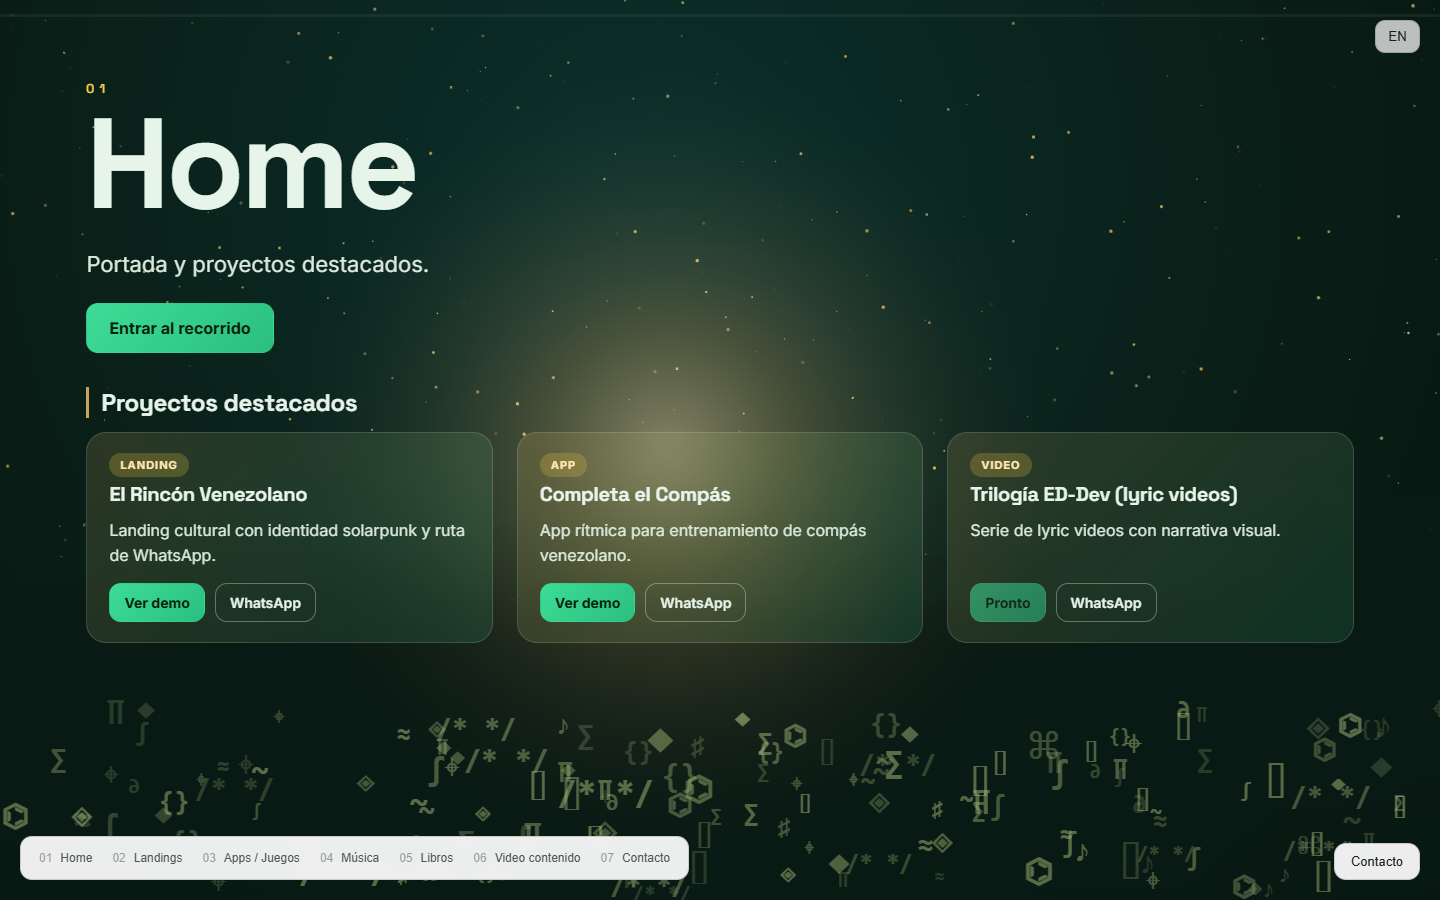
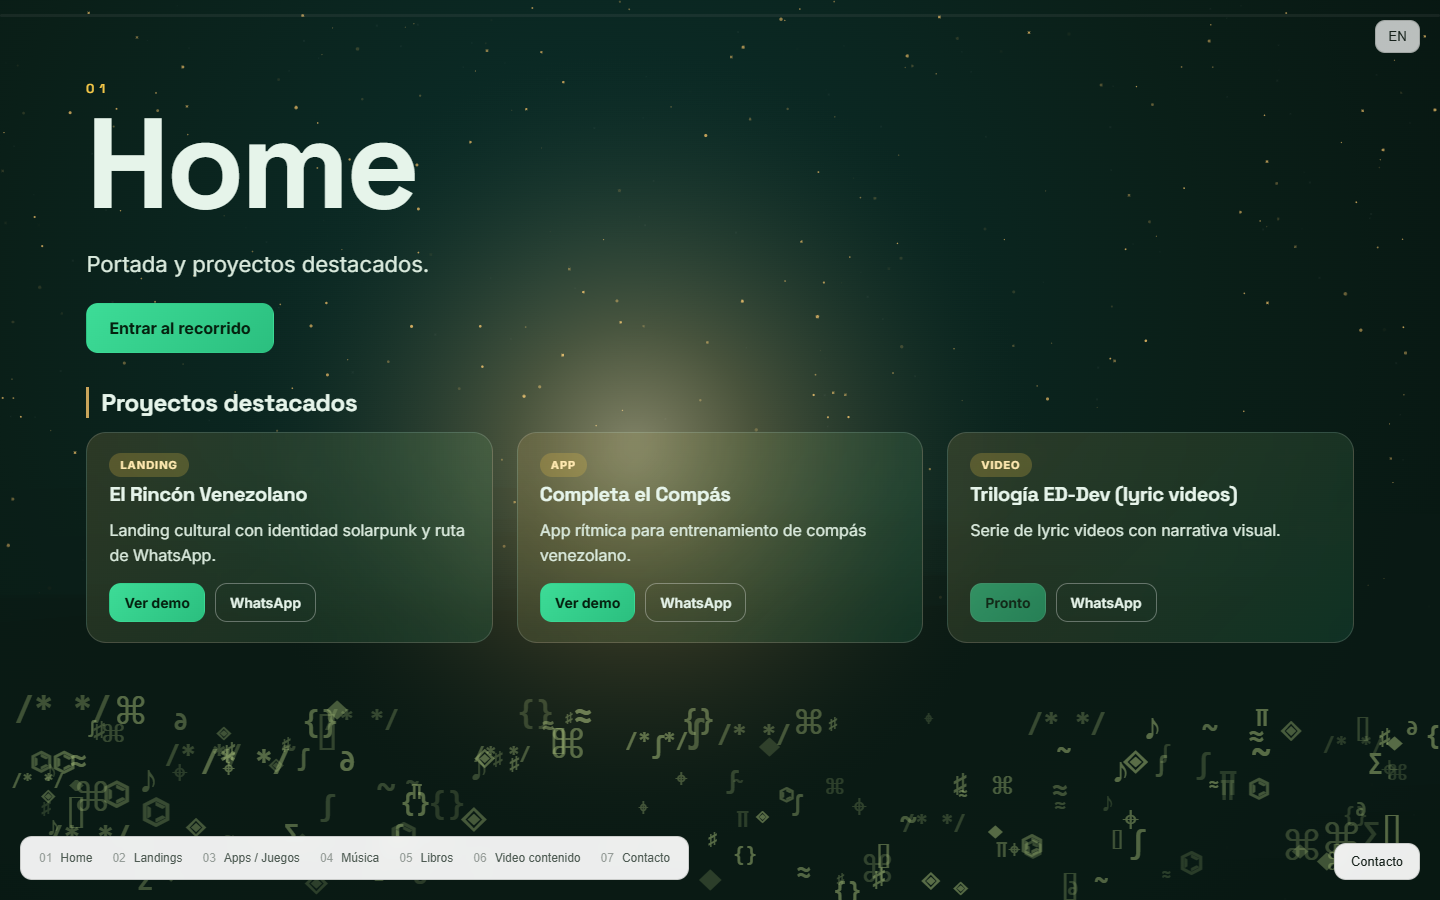
Fases A+B+C: rutas por sala, idioma sin recarga, og latino, fuertes variantes, a11y, imagenes

diff --git a/src/recorrido.js b/src/recorrido.js
@@ -1,6 +1,7 @@
 export function initRecorrido({app, salas, proyectos, textos, CONFIG, MundoCaverna}) {
-  const tUI = () => textos[localStorage.getItem('portafolio-lang') || 'es'] || textos.es
-  const t = (obj) => (obj && (obj[localStorage.getItem('portafolio-lang') || 'es'] ?? obj.es)) || ''
+  const lang = () => localStorage.getItem('portafolio-lang') || 'es'
+  const tUI = () => textos[lang()] || textos.es
+  const t = (obj) => (obj && (obj[lang()] ?? obj.es)) || ''
 
   const el = (tag, attrs = {}, children = []) => {
     const node = document.createElement(tag)
@@ -20,6 +21,12 @@ export function initRecorrido({app, salas, proyectos, textos, CONFIG, MundoCaver
   // Tarjeta de proyecto (una sola vez; la usan las salas y los destacados de Home)
   const crearCard = (p) => {
     const card = el('article', {class:'project' + (p.destacado ? ' featured' : '')})
+    if (p.imagen) {
+      const media = el('div', {class:'project-media'})
+      const img = el('img', {src:p.imagen, alt:t(p.title), loading:'lazy', decoding:'async'})
+      media.appendChild(img)
+      card.appendChild(media)
+    }
     const body = el('div', {class:'project-body'})
     body.appendChild(el('span', {class:'tag', text:tUI().typeLabels[p.type] || p.type}))
     body.appendChild(el('h2', {text:t(p.title)}))
@@ -191,11 +198,16 @@ export function initRecorrido({app, salas, proyectos, textos, CONFIG, MundoCaver
   const progress = el('div', {class:'progress'})
   const progressBar = el('div', {class:'progress-bar'})
   progress.appendChild(progressBar)
+  progress.setAttribute('aria-hidden', 'true')
+
+  // Anuncio de sala para lectores de pantalla (B4)
+  const anuncio = el('p', {class:'sr-only', 'aria-live':'polite'})
   const salaContacto = salas.find(s=>s.id==='contacto')
   const contactoBtn = el('button', {class:'contacto-btn', text:t(salaContacto.titulo)})
   contactoBtn.addEventListener('click', ()=>goTo(salas.length-1))
   document.body.appendChild(progress)
   document.body.appendChild(contactoBtn)
+  document.body.appendChild(anuncio)
 
   // Parallax sutil de los títulos (se apaga con movimiento reducido)
   const salasEls = [...document.querySelectorAll('.room')]
@@ -210,6 +222,26 @@ export function initRecorrido({app, salas, proyectos, textos, CONFIG, MundoCaver
       const sl = stage.scrollLeft           // una sola lectura de layout por frame
       const rw = roomW()
       const i = Math.round(sl / rw)
+
+      // A1: la URL sigue a la sala (sin tocar el scroll del documento)
+      if (i !== ultimaSala) {
+        ultimaSala = i
+        history.replaceState(null, '', `#/${salas[i].id}`)
+      }
+
+      // A1: la URL sigue a la sala (sin tocar el scroll del documento)
+      if (i !== ultimaSala) {
+        ultimaSala = i
+        history.replaceState(null, '', `#/${salas[i].id}`)
+        anuncio.textContent = tUI().roomOf.replace('{n}', String(i+1)).replace('{total}', String(salas.length)) + ': ' + t(salas[i].titulo)
+      }
+
+      document.querySelectorAll('.map-item').forEach((b,idx)=>{
+        const activo = idx===i
+        b.classList.toggle('active', activo)
+        b.setAttribute('aria-current', activo ? 'true' : 'false')
+      })
+
       if (mundo) {
         const sala = salas[i]
         const mode = sala.ambiente==='jardin' ? 'jardin' : 'cueva'
@@ -217,10 +249,6 @@ export function initRecorrido({app, salas, proyectos, textos, CONFIG, MundoCaver
         // Fondo vivo: parallax por capas + variante por sala
         if (mundo.setScene) mundo.setScene({scroll: sl, seed: i})
       }
-      document.querySelectorAll('.map-item').forEach((b,idx)=>{
-        b.classList.toggle('active', idx===i)
-      })
-
       // Progreso: cálculo puro, sin leer layout
       progressBar.style.width = `${(sl / Math.max(1, maxScroll())) * 100}%`
       contactoBtn.classList.toggle('oculto', i === salas.length - 1)
@@ -230,7 +258,7 @@ export function initRecorrido({app, salas, proyectos, textos, CONFIG, MundoCaver
         headEls.forEach((head, idx)=>{
           const off = (idx * rw + rw/2 - sl) / rw
           head.style.transform = `translateX(${off * -6}%)`
-          head.style.opacity = String(Math.max(0.25, 1 - Math.abs(off) * 1.4))
+          head.style.opacity = String(Math.max(0.45, 1 - Math.abs(off) * 1.4))
         })
       }
       ticking = false
@@ -246,10 +274,11 @@ export function initRecorrido({app, salas, proyectos, textos, CONFIG, MundoCaver
   }, {passive:false})
 
   // Teclas
-  window.addEventListener('keydown', (e)=>{
+  const onKey = (e)=>{
     if (e.key==='ArrowRight') goTo(Math.min(salas.length-1, currentIndex()+1))
     if (e.key==='ArrowLeft') goTo(Math.max(0, currentIndex()-1))
-  })
+  }
+  window.addEventListener('keydown', onKey)
 
   // Resize mundo con debounce rAF
   let resizeRAF = false
@@ -263,6 +292,34 @@ export function initRecorrido({app, salas, proyectos, textos, CONFIG, MundoCaver
   })
   ro.observe(document.body)
 
+  // ── A1: enlaces por sala ──
+  // Al cargar: si hay hash (#/apps), aterrizar directo en esa sala
+  const salaIndexFromHash = ()=>{
+    const id = (location.hash || '').replace(/^#\/?/, '')
+    const i = salas.findIndex(s=>s.id===id)
+    return i >= 0 ? i : -1
+  }
+  const inicial = salaIndexFromHash()
+  if (inicial > 0) {
+    stage.scrollLeft = inicial * roomW()          // salto directo, sin animación
+    if (mundo) {
+      const sala = salas[inicial]
+      mundo.setMode(sala.ambiente==='jardin' ? 'jardin' : 'cueva')
+      if (mundo.setScene) mundo.setScene({scroll: stage.scrollLeft, seed: inicial})
+    }
+  }
+
   // Exponer
+  let ultimaSala = inicial
   window.__recorrido = {goTo, currentIndex}
+
+  // Destructor para repintar (cambio de idioma sin recarga)
+  const destroy = ()=>{
+    mundo && mundo.destroy()
+    ro.disconnect()
+    window.removeEventListener('keydown', onKey)
+    progress.remove(); contactoBtn.remove(); toast.remove(); canvas.remove(); anuncio.remove()
+    app.innerHTML = ''
+  }
+  return {destroy}
 }

diff --git a/src/main.js b/src/main.js
@@ -1,6 +1,5 @@
+import './fonts.css'
 import './style.css'
-import '@fontsource-variable/space-grotesk'
-import '@fontsource-variable/inter'
 import salas from './salas.js'
 import proyectos from './proyectos.js'
 import textos from './textos.js'
@@ -14,38 +13,46 @@ const CONFIG = {
 const app = document.getElementById('app')
 if (!app) throw new Error('app not found')
 
-// Inicializar recorrido horizontal con 7 salas
-initRecorrido({ app, salas, proyectos, textos, CONFIG, MundoCaverna })
-
-// Mantener idioma en documento y JSON-LD mínimo
-let lang = localStorage.getItem('portafolio-lang') || 'es'
-document.documentElement.lang = lang
-
-function updateLang() {
+// JSON-LD mínimo + SEO en documento
+function updateDoc() {
+  const lang = localStorage.getItem('portafolio-lang') || 'es'
   document.documentElement.lang = lang
   const tUI = textos[lang] || textos.es
-  const title = tUI.pageTitle || 'Portafolio ED-Dev'
-  document.title = title
+  document.title = tUI.pageTitle || 'Portafolio ED-Dev'
   const ld = document.getElementById('ldjson')
   if (ld) {
     ld.textContent = JSON.stringify({
       '@context':'https://schema.org',
       '@type':'Person',
       name:'ED-Dev',
-      description:'Portafolio de 7 salas: caverna y jardín.'
+      description:'Portafolio de 7 salas: caverna y jardín.',
+      knowsAbout: proyectos.map(p=>p.title.es)
     })
   }
 }
-updateLang()
+updateDoc()
 
-// Botón de idioma simple
+// Pintar el recorrido (y repintarlo sin recargar al cambiar idioma)
+let vivo = null
+function render() {
+  if (vivo) vivo.destroy()
+  app.innerHTML = ''
+  updateDoc()
+  vivo = initRecorrido({ app, salas, proyectos, textos, CONFIG, MundoCaverna })
+}
+render()
+
+// Botón de idioma simple (sin recarga: se repinta y sigues en tu sala)
 const btn = document.createElement('button')
 btn.className = 'lang-btn'
-btn.textContent = lang === 'es' ? 'EN' : 'ES'
+btn.textContent = localStorage.getItem('portafolio-lang') === 'en' ? 'ES' : 'EN'
 btn.addEventListener('click', ()=>{
-  lang = lang === 'es' ? 'en' : 'es'
-  localStorage.setItem('portafolio-lang', lang)
-  updateLang()
-  location.reload()
+  const next = localStorage.getItem('portafolio-lang') === 'en' ? 'es' : 'en'
+  const salaActual = window.__recorrido ? window.__recorrido.currentIndex() : 0  // antes de repintar
+  localStorage.setItem('portafolio-lang', next)
+  btn.textContent = next === 'en' ? 'ES' : 'EN'
+  render()
+  // volver a la sala donde estabas (el hash ya la recuerda)
+  if (salaActual > 0) requestAnimationFrame(()=>window.__recorrido.goTo(salaActual))
 })
 document.body.appendChild(btn)

diff --git a/src/mundo-caverna.js b/src/mundo-caverna.js
@@ -241,9 +241,9 @@ export class MundoCaverna {
 
     const p = (i) => this.prand(i);
 
-    // Cueva: el centro del túnel varía por sala
-    const cupX = w * (0.35 + p(1) * 0.3);
-    const cupY = h * 0.2;
+    // Cueva: el centro del túnel varía por sala (rango amplio: cada cueva se siente distinta)
+    const cupX = w * (0.25 + p(1) * 0.5);
+    const cupY = h * (0.1 + p(4) * 0.25);
     const cupula = ctx.createRadialGradient(cupX, cupY, 50, cupX, cupY, Math.max(w, h));
     cupula.addColorStop(0, '#0b2e2a');
     cupula.addColorStop(0.4, '#0a1f18');
@@ -255,9 +255,9 @@ export class MundoCaverna {
     jardin.addColorStop(1, '#fefcf7');
     this._bgJardin = jardin;
 
-    // Jardín: el sol nace en un lugar distinto por sala
-    this._sunX = w * (0.65 + p(2) * 0.3);
-    this._sunY = h * (0.14 + p(3) * 0.12);
+    // Jardín: el sol nace en un lugar bien distinto por sala
+    this._sunX = w * (0.5 + p(2) * 0.45);
+    this._sunY = h * (0.08 + p(3) * 0.22);
     const sunX = this._sunX;
     const sunY = this._sunY;
     const radial = ctx.createRadialGradient(sunX, sunY, 0, sunX, sunY, 220);
@@ -323,8 +323,8 @@ export class MundoCaverna {
     ctx.fillStyle = g;
     ctx.fillRect(0, 0, w, h);
 
-    // Antorcha: sigue el mouse pero cada sala la coloca con un sesgo propio
-    const lx = Math.min(Math.max(this.mx + (this.prand(7) - 0.5) * 0.3, 0.03), 0.97) * w;
+    // Antorcha: sigue el mouse pero cada sala la coloca con un sesgo propio (más marcado)
+    const lx = Math.min(Math.max(this.mx + (this.prand(7) - 0.5) * 0.5, 0.03), 0.97) * w;
     const ly = this.my * h;
     const ox = (this.mx - 0.5) * 20;
     const oy = (this.my - 0.5) * 20;

diff --git a/index.html b/index.html
@@ -13,13 +13,13 @@
     <meta property="og:description" content="Siete salas para recorrer: la caverna donde se construyen las cosas, el jardín donde descansan, y la salida a la luz para hablar." />
     <meta property="og:type" content="website" />
     <meta property="og:site_name" content="ED-Dev" />
-    <meta property="og:image" content="/og-image.png" />
+    <meta property="og:image" content="/og-image.jpg" />
     <meta property="og:image:alt" content="Portafolio ED-Dev — recorrido de 7 salas" />
 
     <meta name="twitter:card" content="summary_large_image" />
     <meta name="twitter:title" content="Portafolio ED-Dev" />
     <meta name="twitter:description" content="Diseño, tecnología y cultura con recorrido de 7 salas." />
-    <meta name="twitter:image" content="/og-image.png" />
+    <meta name="twitter:image" content="/og-image.jpg" />
 
     <script type="application/ld+json" id="ldjson">{}</script>
   </head>
@@ -27,7 +27,7 @@
     <div id="app"></div>
     <noscript>
       <p style="padding:24px;font-family:system-ui;color:#e6f4ea;background:#050a08">
-        Este portafolio necesita JavaScript. Escríbeme por WhatsApp al 584241875518 — ED-Dev.
+        Este portafolio necesita JavaScript. Contáctame desde la sala de Contacto — ED-Dev.
       </p>
     </noscript>
     <script type="module" src="/src/main.js"></script>

diff --git a/src/fonts.css b/src/fonts.css
@@ -1,0 +1,21 @@
+/* Fuentes propias empaquetadas: SOLO subconjunto latino.
+   Español e inglés viven en U+0000-00FF (tildes, ñ, ¿¡, €) — el resto sobraba. */
+
+/* Space Grotesk — display */
+@font-face {
+  font-family: 'Space Grotesk Variable';
+  font-style: normal;
+  font-display: swap;
+  font-weight: 300 700;
+  src: url('@fontsource-variable/space-grotesk/files/space-grotesk-latin-wght-normal.woff2') format('woff2-variations');
+  unicode-range: U+0000-00FF,U+0131,U+0152-0153,U+02BB-02BC,U+02C6,U+02DA,U+02DC,U+0304,U+0308,U+0329,U+2000-206F,U+20AC,U+2122,U+2191,U+2193,U+2212,U+2215,U+FEFF,U+FFFD;
+}
+/* Inter — texto */
+@font-face {
+  font-family: 'Inter Variable';
+  font-style: normal;
+  font-display: swap;
+  font-weight: 100 900;
+  src: url('@fontsource-variable/inter/files/inter-latin-wght-normal.woff2') format('woff2-variations');
+  unicode-range: U+0000-00FF,U+0131,U+0152-0153,U+02BB-02BC,U+02C6,U+02DA,U+02DC,U+0304,U+0308,U+0329,U+2000-206F,U+20AC,U+2122,U+2191,U+2193,U+2212,U+2215,U+FEFF,U+FFFD;
+}

diff --git a/src/style.css b/src/style.css
@@ -316,6 +316,9 @@ main { display: block }
   background: linear-gradient(135deg, rgba(201, 164, 90, .18), rgba(61, 220, 151, .12));
 }
 
+.project-media { overflow: hidden; border-bottom: 1px solid var(--line) }
+.project-media img { display: block; width: 100%; height: 180px; object-fit: cover }
+
 .project-body { padding: 28px; display: flex; flex-direction: column; gap: 14px; height: 100% }
 
 .project-title { margin: 0; font-size: 18px; line-height: 1.25 }
@@ -595,6 +598,16 @@ footer {
   opacity: 0;
   transform: translateY(8px);
   pointer-events: none;
+}
+
+.sr-only {
+  position: absolute;
+  width: 1px; height: 1px;
+  padding: 0; margin: -1px;
+  overflow: hidden;
+  clip: rect(0 0 0 0);
+  white-space: nowrap;
+  border: 0;
 }
 
 /* Proyectos destacados en Home */

diff --git a/MEMORIA.md b/MEMORIA.md
@@ -24,6 +24,7 @@ Portafolio ED-Dev: webapp de una sola página con recorrido horizontal de 7 sala
 - 2026-10-27 — El snap-suave NO se hace en cada evento de rueda: con deltas de 100-160px el destino cae casi siempre en ~25% de la sala actual y la rueda nunca sale del sitio. Se redondea solo al asentarse (cuando la persecución lerp termina).
 
 ## Vara actual (qué subió 1% y cuándo)
+- 2026-10-28 — Reporte de análisis propio → 3 fases ejecutadas. Fase A (vender): enlaces por sala `#/landings` (aterriza directo, URL te sigue con `replaceState`, sin saltar la vista), idioma SIN recarga (repinta el recorrido y vuelves a tu sala), og-image.jpg 62 KB generada desde la sala real (`scripts/gen-og.mjs`) y número fuera del `<noscript>`. Fase B: fuentes solo latino (de 9 woff2 ~200 KB a 2 ~71 KB), piso de opacidad del parallax 0.25→0.45, variantes de cueva/jardín más marcadas por sala (cúpula 0.25-0.75 x, sol 0.5-0.95 x, antorcha ±0.5), anuncio `aria-live` de sala + `aria-current` en el mapa. Fase C: campo `imagen` opcional en tarjetas (listo para el material de Erickson, sin inventar capturas) y JSON-LD con `knowsAbout` de proyectos. Evidencia: `scripts/prueba-rutas.mjs` verde (aterriza en 2 con #/apps, URL→#/libros, "Books" sin recargar ni mover sala), check-ui verde, FPS 60/60/61, 14 capturas nuevas, build con firma, 2 commits locales de checkpoint (sin push). Documentación nueva: `docs/datos.md`.
 - 2026-10-26 — Línea base: armazón estático con i18n incompleta, fuga de IntersectionObserver, 3 canvas en test-mundo, sin docs/ ni git. Objetivo de esta actualización: recorrido navegable + caverna integrada + 60 fps en gama media + repo limpio con memoria viva.
 - 2026-10-27 — Accessibility 100 Lighthouse, CLS 0, scroll rAF, heading orden correcto. Firma ED-Dev verificada en build.
 - 2026-10-27 — Fase 3 cerrada con evidencia vista: navegación reparada (goTo sobre `.stage`), tokens por ambiente (cueva oscura / jardín claro siempre legibles), sala Contacto real (WhatsApp de `CONFIG` + copiar propuesta con toast), tarjeta "En construcción con dignidad" con texto, mapa con `01 Índice` separado, botón "Entrar al recorrido" en Home y tarjetas de proyecto visibles (`IntersectionObserver` con `unobserve`, sin fuga). 60-61 FPS escritorio/móvil emulado, 0 errores de consola, 14 capturas en `02 LISTOS/Portafolio-v2/evidencia/`, build con firma.

diff --git a/docs/piezas.md b/docs/piezas.md
@@ -25,6 +25,14 @@ Estado de cada pieza. "Congelada" = no se toca sin permiso de Erickson.
 | Tipografía + tarjetas (P6.1) | `src/style.css` + `src/recorrido.js` + `src/main.js` | Aprobada 2026-10-27 | Space Grotesk + Inter locales (woff2), h1 editorial, tarjetas 340px+ con tag y botones Ver demo/WhatsApp |
 | Fondo vivo (P6.2) | `src/mundo-caverna.js` + `src/recorrido.js` | Aprobada 2026-10-27 | `setScene({scroll,seed})`: parallax por capas + variantes por sala; parallax de títulos matemático + `will-change` (58 FPS en vuelo, 60 estable) |
 | Destacados en Home | `src/recorrido.js` + `src/style.css` | Por aprobar (captura lista 2026-10-27) | 3 tarjetas destacado bajo el hero, reutiliza `crearCard`; falta el sí de Erickson |
+| Rutas por sala (A1) | `src/recorrido.js` | Aprobada 2026-10-28 | `#/landings`: aterriza, URL cambia con la sala; `prueba-rutas.mjs` verde |
+| Idioma sin recarga (A2) | `src/main.js` + `src/recorrido.js` | Aprobada 2026-10-28 | Repinta y conserva la sala; destroy limpio (canvas, observers, listeners) |
+| og para compartir (A3) | `scripts/gen-og.mjs` → `public/og-image.jpg` | Aprobada 2026-10-28 | 62 KB JPEG desde la sala real de la web |
+| Fuentes latino (B1) | `src/fonts.css` | Aprobada 2026-10-28 | Solo woff2 latinos: 9 archivos → 2, ~200 KB → ~71 KB |
+| Parallax legible (B2) | `src/recorrido.js` | Aprobada 2026-10-28 | Piso de opacidad 0.25 → 0.45 en vuelo |
+| Variantes marcadas (B3) | `src/mundo-caverna.js` | Aprobada 2026-10-28 | Cúpula, sol y antorcha varían fuerte por semilla de sala |
+| Accesibilidad del recorrido (B4) | `src/recorrido.js` | Aprobada 2026-10-28 | `aria-live` anuncia sala, `aria-current` en mapa |
+| Imagen en fichas (C1) | `src/recorrido.js` + `src/proyectos.js` | Listo, sin material | Campo `imagen` opcional; espera capturas de Erickson. Guía en `docs/datos.md` |
 
 ## Regla
 Cuando una pieza falla, se repara **esa** pieza. No se tocan las demás.

diff --git a/docs/datos.md b/docs/datos.md
@@ -1,0 +1,42 @@
+# Cómo se edita el contenido (para un niño, para Erickson)
+
+Todo lo que se ve en la web vive en 3 archivos de datos. No toques el HTML ni el CSS para cambiar contenido: edita estos archivos, guarda, y la web se actualiza sola.
+
+## `src/salas.js` — las 7 salas
+Cada sala es un bloque así:
+
+```js
+{
+  id: 'landings',            // nombre corto para el enlace (#/landings)
+  ambiente: 'cueva',         // 'cueva' o 'jardin': define el fondo
+  titulo: { es: 'Landings', en: 'Landings' },
+  resumen: { es: 'Webs de marca con identidad propia.', en: 'Brand sites with their own identity.' }
+}
+```
+
+## `src/proyectos.js` — los proyectos
+Cada proyecto es un bloque:
+
+```js
+{
+  id: 'rincon',
+  type: 'landing',           // landing | app | video
+  sala: 'landings',          // en qué sala vive
+  destacado: true,           // true = aparece también en Home
+  estado: 'listo',           // listo | proximo
+  title: { es: 'El Rincón Venezolano', en: 'El Rincón Venezolano' },
+  description: { es: '...', en: '...' },
+  urlDemo: 'https://...',    // vacío = botón "Pronto"
+  propuesta: { es: 'Hola ED-Dev...', en: 'Hi ED-Dev...' },   // texto del WhatsApp
+  imagen: '/img/rincon.jpg'  // OPCIONAL: captura del proyecto. Si no existe, la tarjeta se muestra sin imagen
+}
+```
+
+Reglas rápidas:
+- ¿Proyecto nuevo en una sala nueva? Añade aquí el bloque con su `sala`.
+- ¿Quieres marcarlo en la portada? Pon `destacado: true`.
+- ¿Tienes la captura? Sube la imagen a `public/img/` y pon la ruta en `imagen`.
+- El número de WhatsApp NO está aquí: vive solo en `src/main.js` (`CONFIG.whatsappNumber`).
+
+## `src/textos.js` — los textos de la interfaz
+Botones, títulos y frases. Cada texto tiene sus dos versiones (`es` y `en`). Si añades una clave en un idioma, añádela también en el otro.
